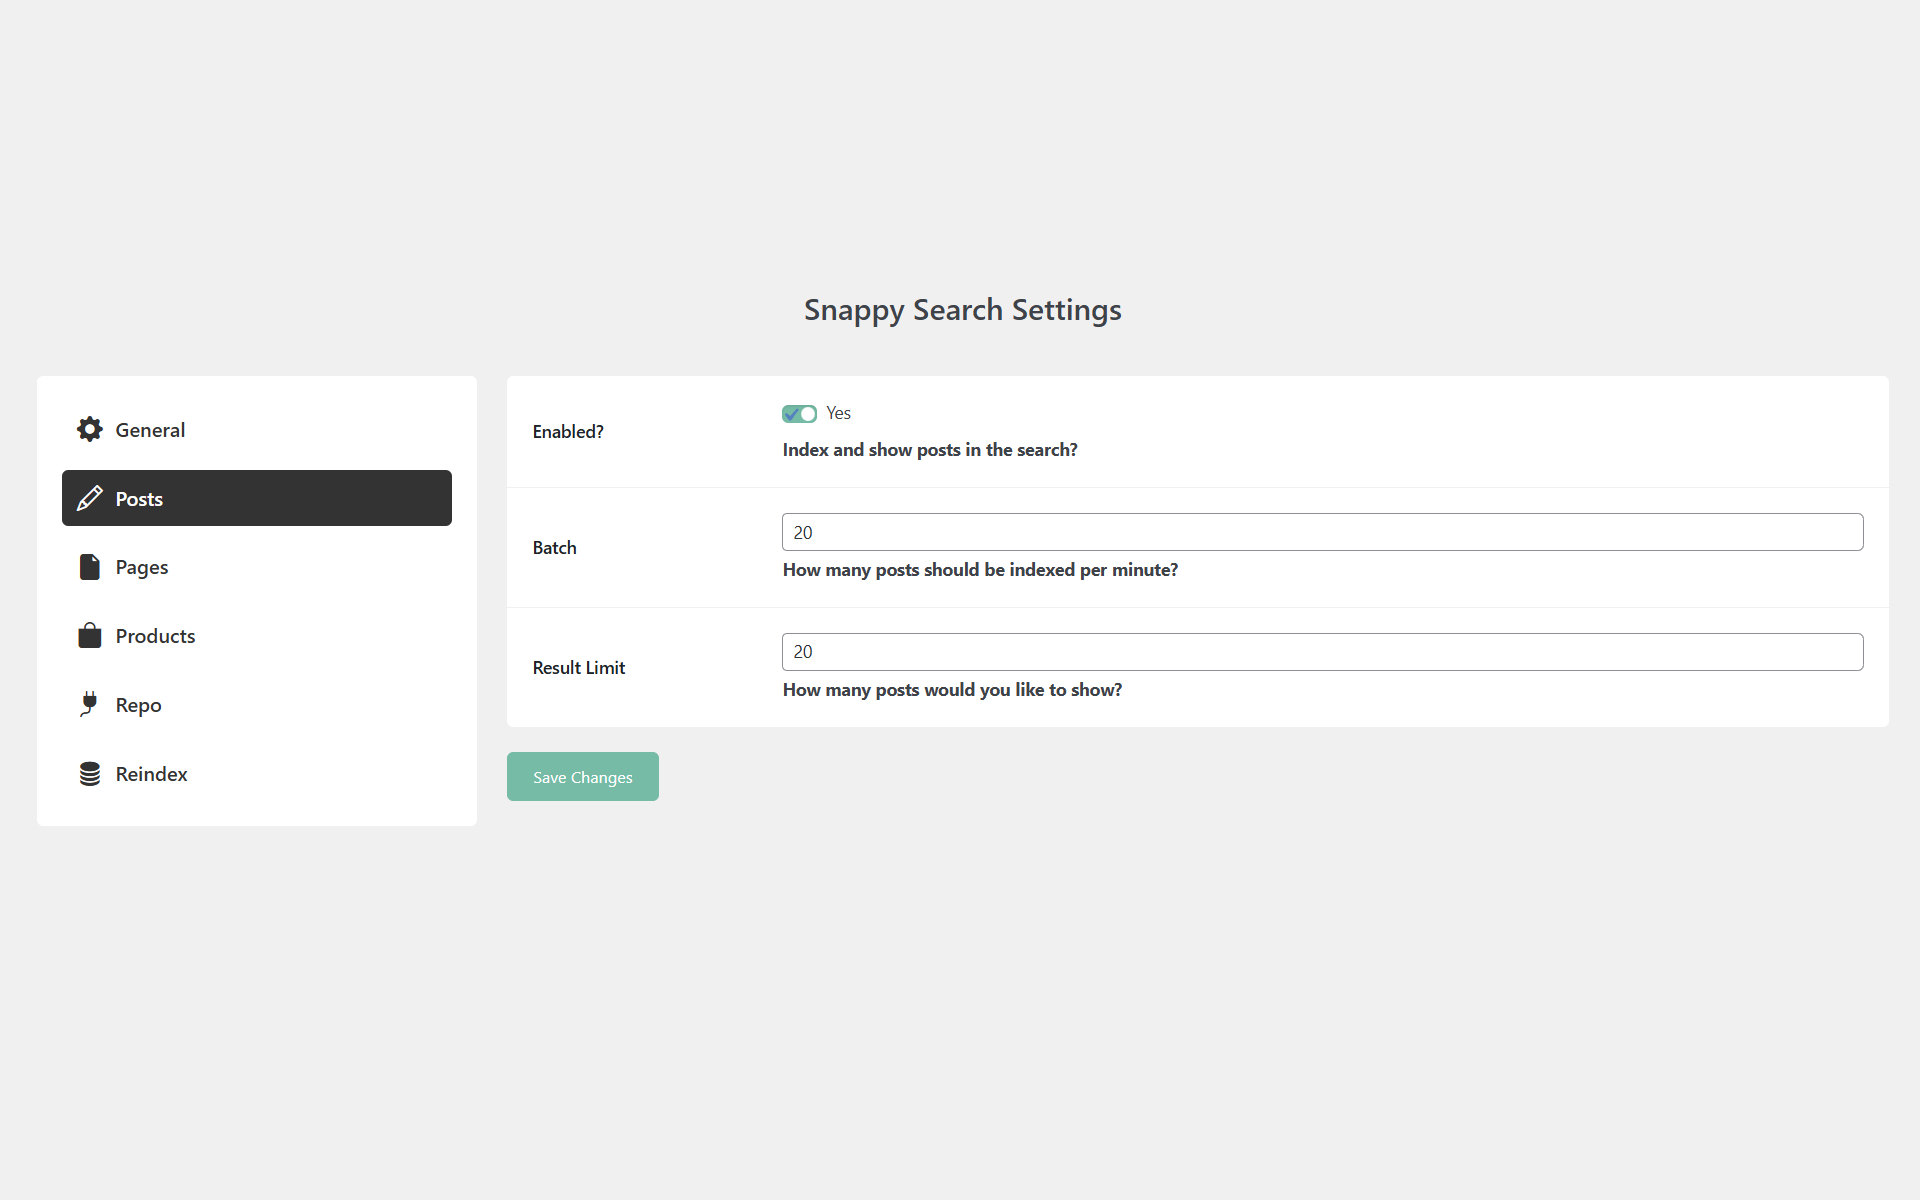
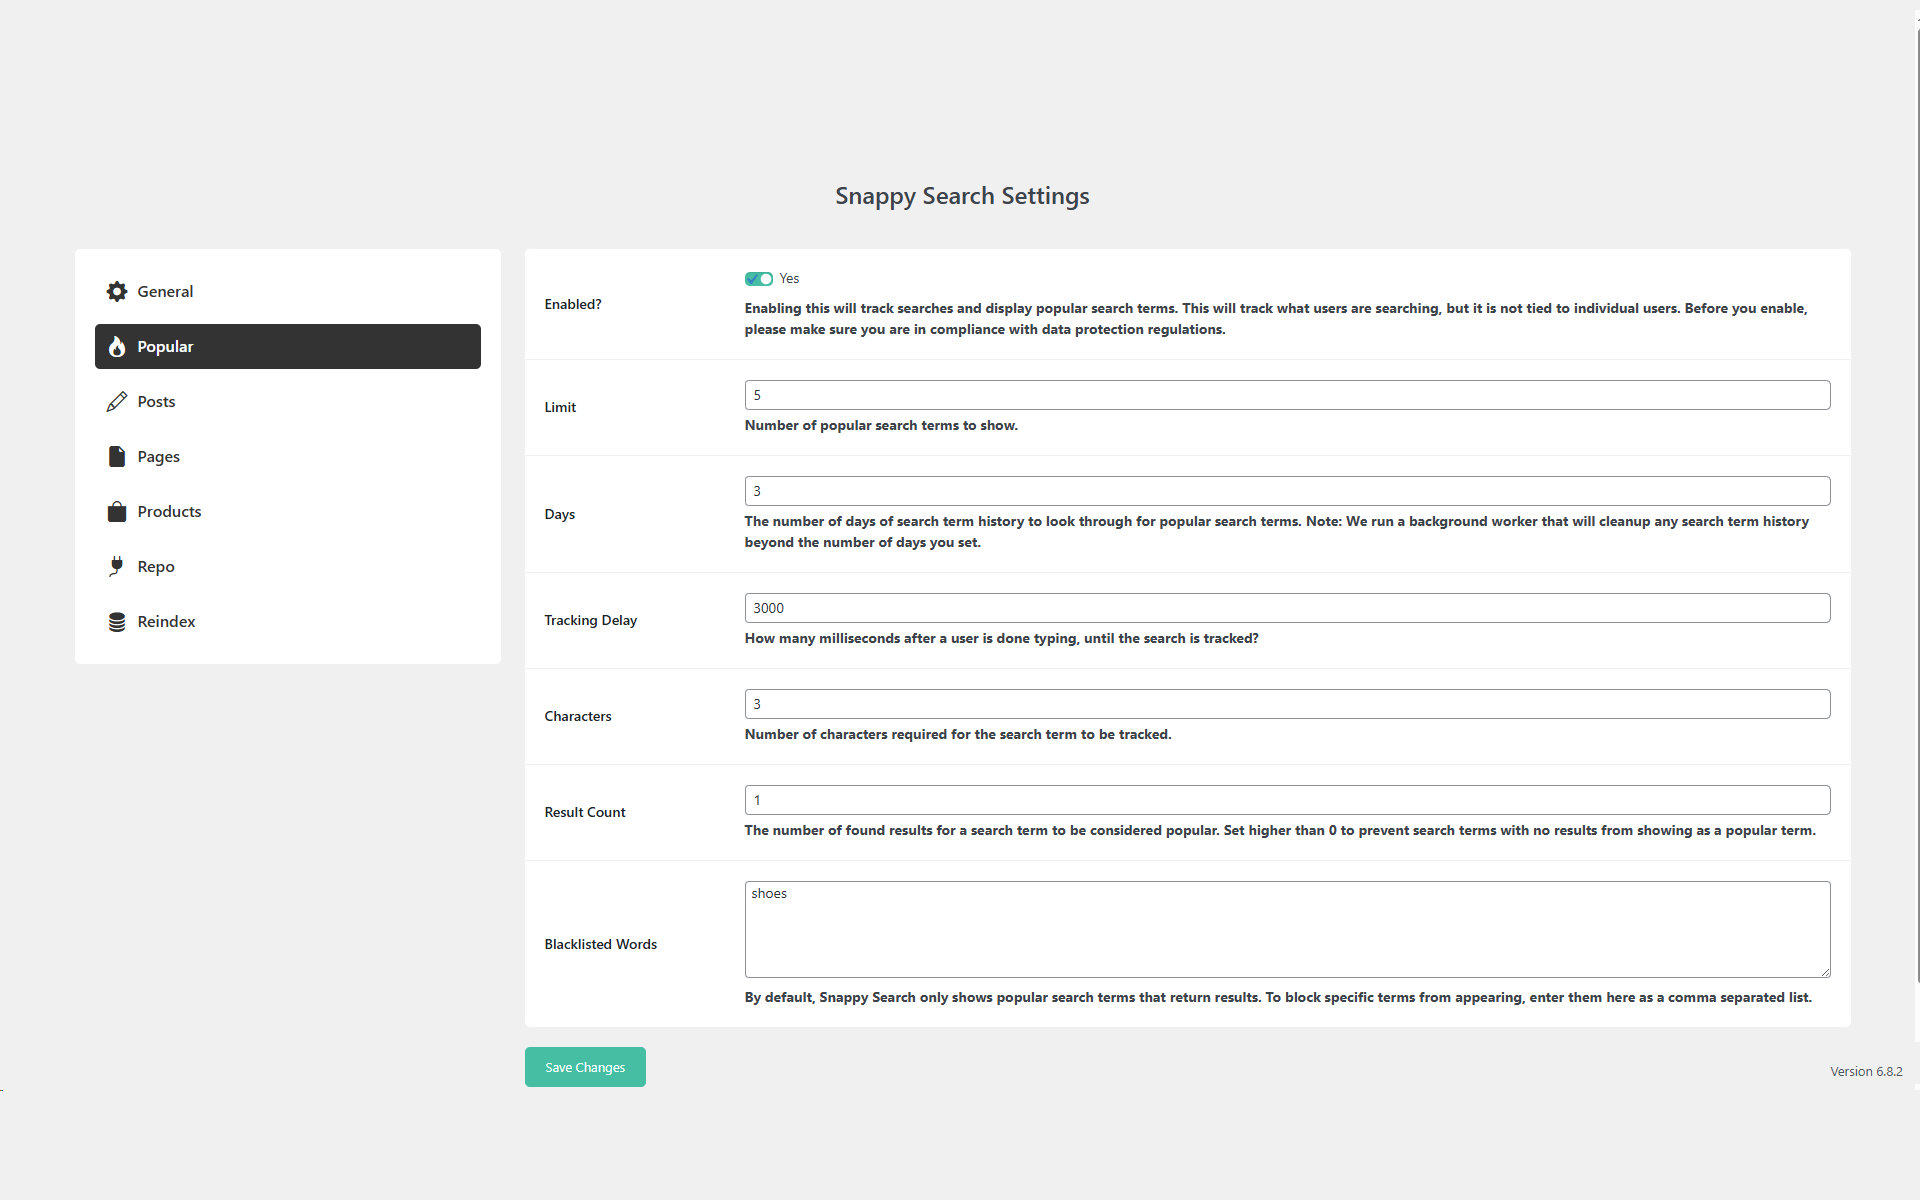
Updated: Screenshots Updated: Readme

diff --git a/README.MD b/README.MD
@@ -24,6 +24,8 @@ Snappy Search is a powerful and lightweight AJAX search plugin that enhances you
 * Index updater that handles when data is added, updated, removed, set to draft, or visibility hidden.
 * Ability to adjust the batch size for the initial index so smaller servers don't get overloaded
 * Limit the number of results displayed
+* Popular search terms can be displayed below the search [NEW]
+* Add your own custom shortcode template by copying snappy-search-form.php to your theme folder [NEW]
 * Reindexer button
 * Adds /wp-json/snappy-search/v1/products endpoint to get array of post id's (Requires WooCommerce)
 * Adds /wp-json/snappy-search/v1/downloads endpoint to get array of post id's (Requires EDD)
@@ -54,10 +56,11 @@ This plugin collects and stores certain data on your server to ensure proper fun
 
 ![Demo](.wordpress-org/screenshot-1.jpg)
 ![General Settings](.wordpress-org/screenshot-2.jpg)
-![Posts Settings](.wordpress-org/screenshot-3.jpg)
-![Pages Settings](.wordpress-org/screenshot-4.jpg)
-![Products Settings](.wordpress-org/screenshot-5.jpg)
-![Repo Settings](.wordpress-org/screenshot-6.jpg)
+![Popular Settings](.wordpress-org/screenshot-3.jpg)
+![Posts Settings](.wordpress-org/screenshot-4.jpg)
+![Pages Settings](.wordpress-org/screenshot-5.jpg)
+![Products Settings](.wordpress-org/screenshot-6.jpg)
+![Repo Settings](.wordpress-org/screenshot-7.jpg)
 
 ## Installation
 
@@ -74,21 +77,40 @@ By default, it will index 10 posts per minute.
 
 ## Changelog
 
+### 1.2.0
+* Added: Custom template for shortcode search so the layout can be changed. Add your own custom template by copying snappy-search-form.php to your theme folder
+* Added: Popular searches that display under the search form
+* Added: Popular search enable setting
+* Added: Popular search limit setting to only show top X number of popular search terms below the form
+* Added: Popular days setting for the number of days of search term history to look through for popular search terms
+* Added: Popular tracking delay setting to handle triggering tracking search after it's been completed, this must be larger than typing delay
+* Added: Popular search character setting for preventing non words from showing in popular search terms
+* Added: Popular result count setting to prevent search terms with no or low results from showing
+* Added: Popular blacklist setting to block specific search terms from showing as popular
+* Added: Cron that cleans up popular searches table based on number of days for a search term to be considered popular
+* Added: Handling for creating the new popular search term table
+* Added: Max character setting under general to limit the length of search terms
+* Updated: Endpoint names with old endpoints still being accessible, but they will be removed in the future, so please update references if you are using them outside of this plugin
+* Updated: TNTSearch to 5.0.1
+* Updated: Translations
+* Moved: Activation logic to it's own classes
+* Moved: Snappy Search settings to top level
+
 ### 1.1.0
-- Added: Support for WooCommerce Products
-- Added: Support for Easy Digital Downloads
-- Added: Support for Pages
-- Added: Shortcode [snappy_search_polyplugins] to inject a Snappy Search form anywhere
-- Added: Index updater that handles when data is added, updated, removed, set to draft, or visibility hidden.
-- Added: Reindex button to settings
-- Added: Characters and Typing Delay options under General settings
-- Added: Enabled option under various index types
-- Added: Tab navigation to search if showing more than one index
-- Updated: Name to Snappy Search
-- Bugfix: Cron jobs may not register during activation
+* Added: Support for WooCommerce Products
+* Added: Support for Easy Digital Downloads
+* Added: Support for Pages
+* Added: Shortcode [snappy_search_polyplugins] to inject a Snappy Search form anywhere
+* Added: Index updater that handles when data is added, updated, removed, set to draft, or visibility hidden.
+* Added: Reindex button to settings
+* Added: Characters and Typing Delay options under General settings
+* Added: Enabled option under various index types
+* Added: Tab navigation to search if showing more than one index
+* Updated: Name to Snappy Search
+* Bugfix: Cron jobs may not register during activation
 
 ### 1.0.1
-- Added: Repo Advanced Search
+* Added: Repo Advanced Search
 
 ### 1.0.0
-- Initial Release
+* Initial Release
